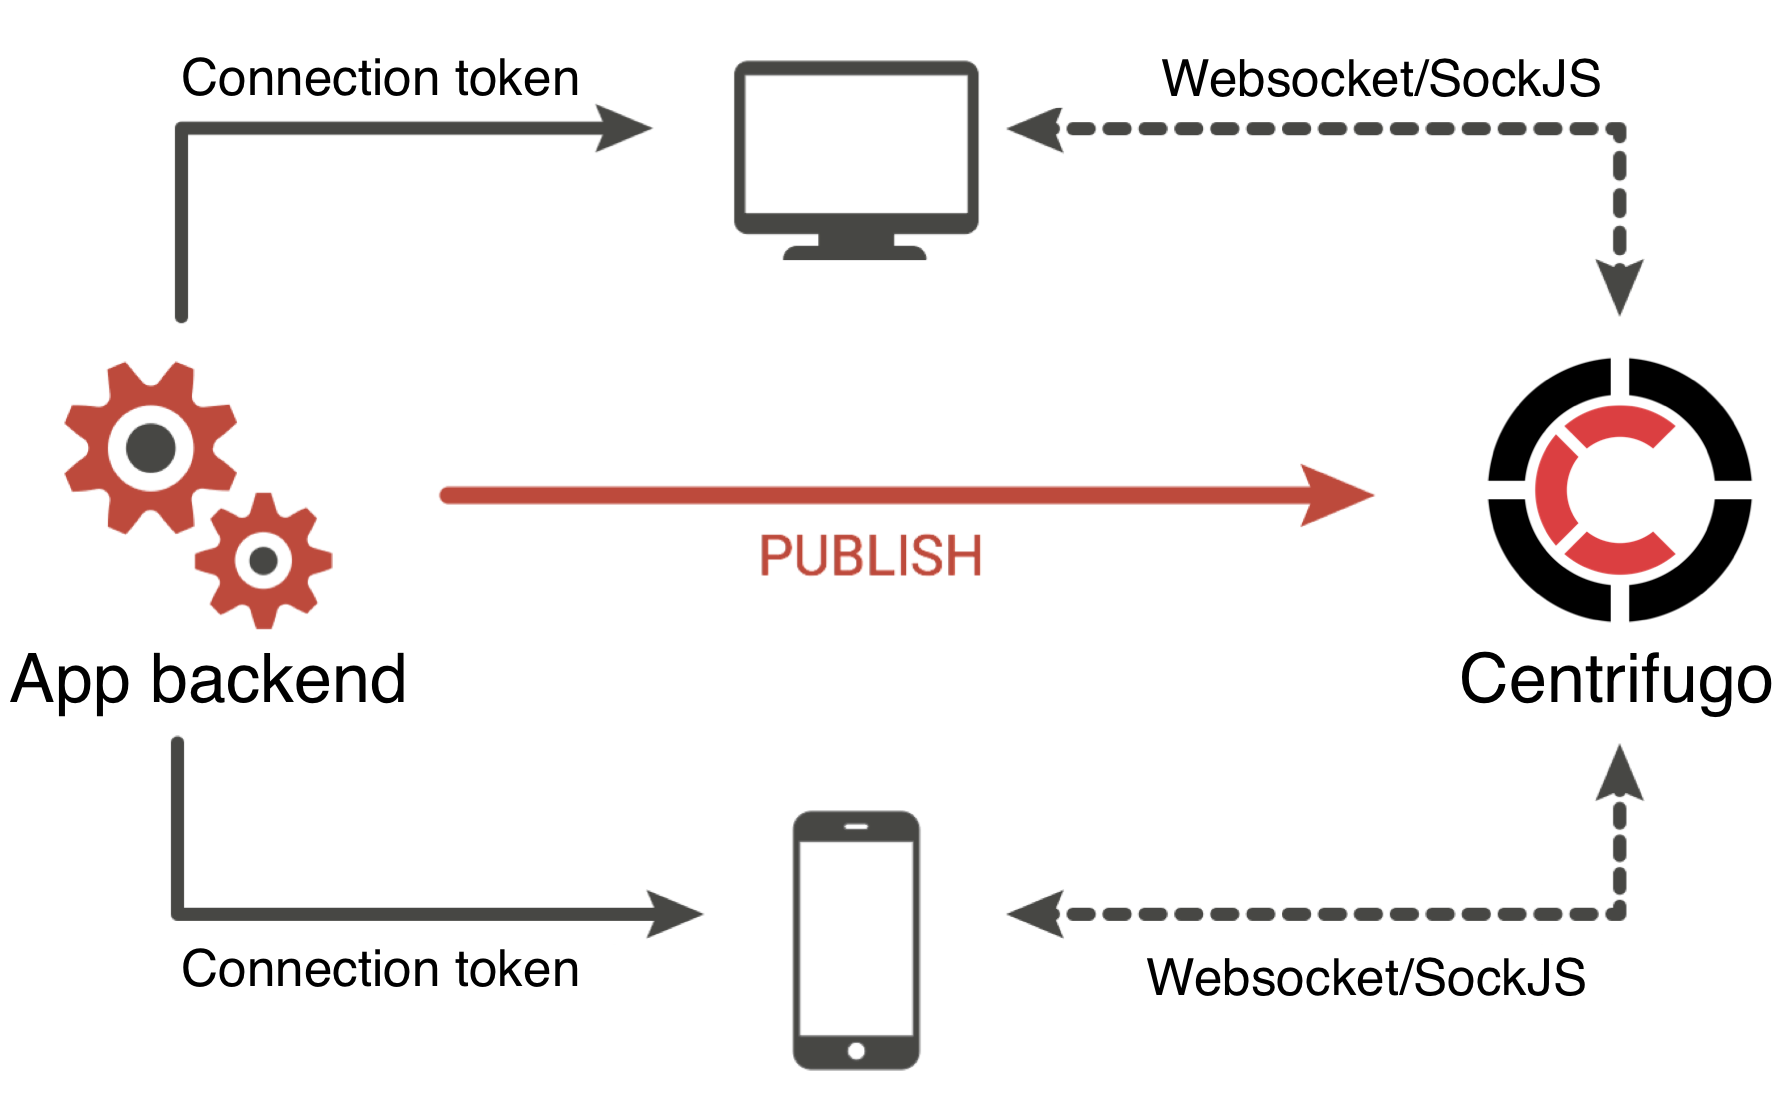
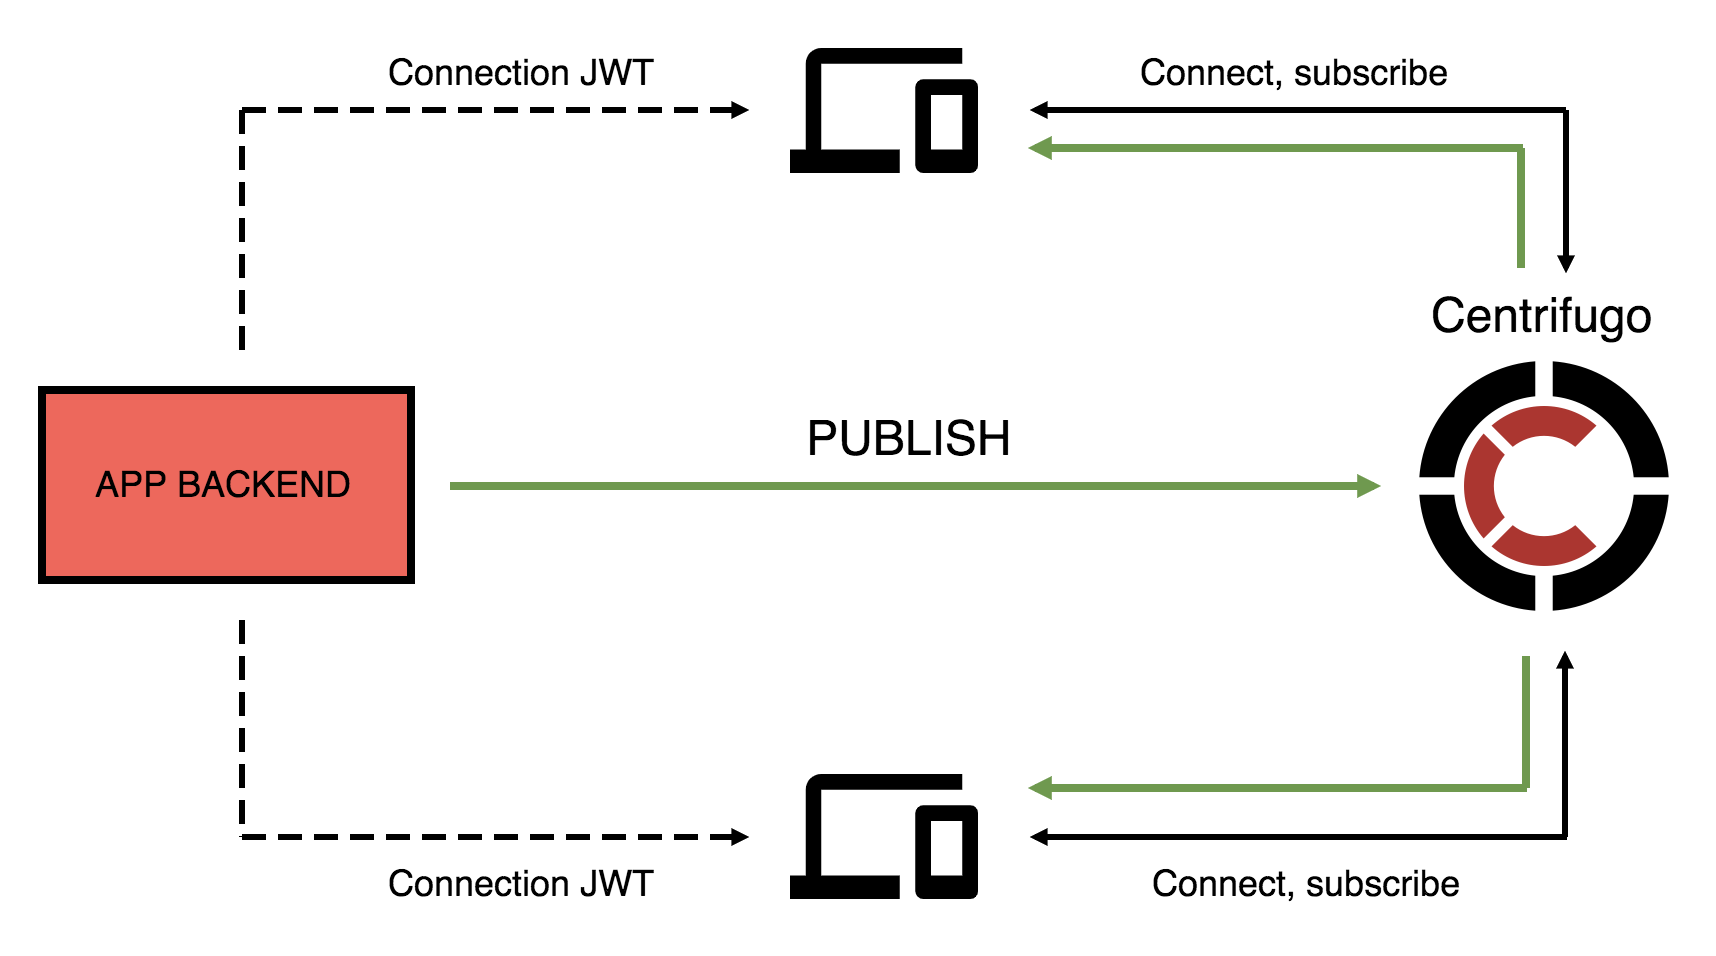
new scheme

Changed region(s): [[0.0, 0.0303, 0.9883, 0.637], [0.0927, 0.6674, 0.9266, 0.9707], [0.2162, 0.91, 0.3706, 0.9404]]

diff --git a/README.md b/README.md
@@ -4,7 +4,7 @@ Centrifugo is a real-time messaging server. It's language-agnostic and can be us
 
 See server [documentation](https://centrifugal.github.io/centrifugo/).
 
-![scheme](https://raw.githubusercontent.com/centrifugal/centrifugo/c2/docs/content/images/scheme_small_wide.png)
+![scheme](https://raw.githubusercontent.com/centrifugal/centrifugo/c2/docs/content/images/scheme.png)
 
 You can also find the following posts interesting:
 * [Four years in Centrifuge](https://medium.com/@fzambia/four-years-in-centrifuge-ce7a94e8b1a8) – this is a story and motivation of Centrifugo
